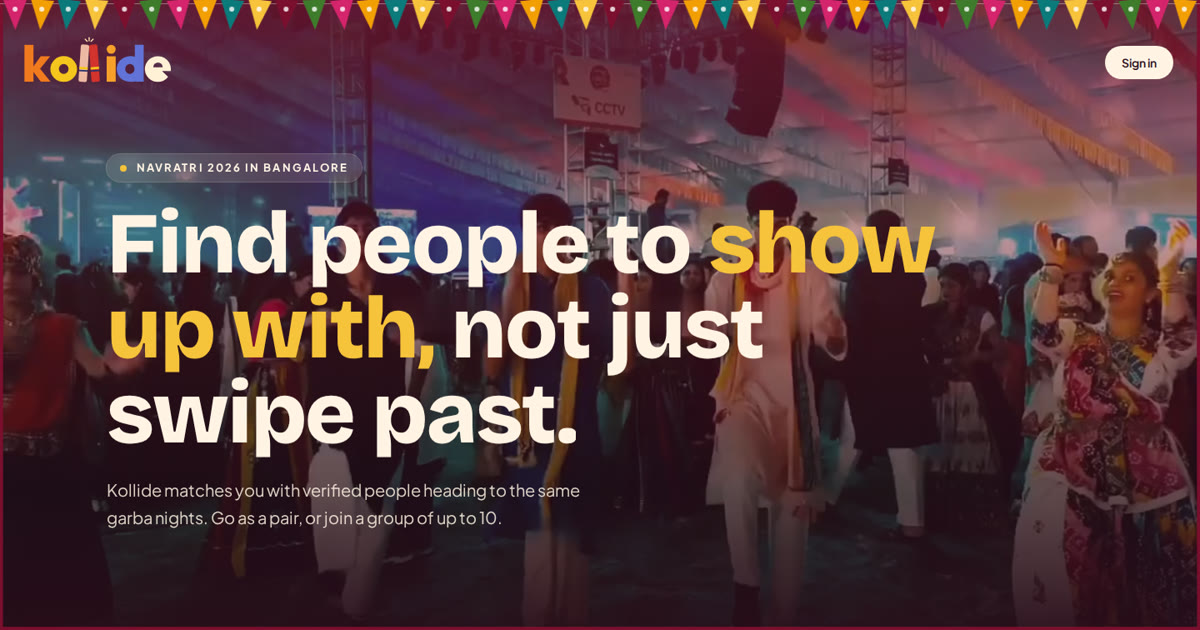
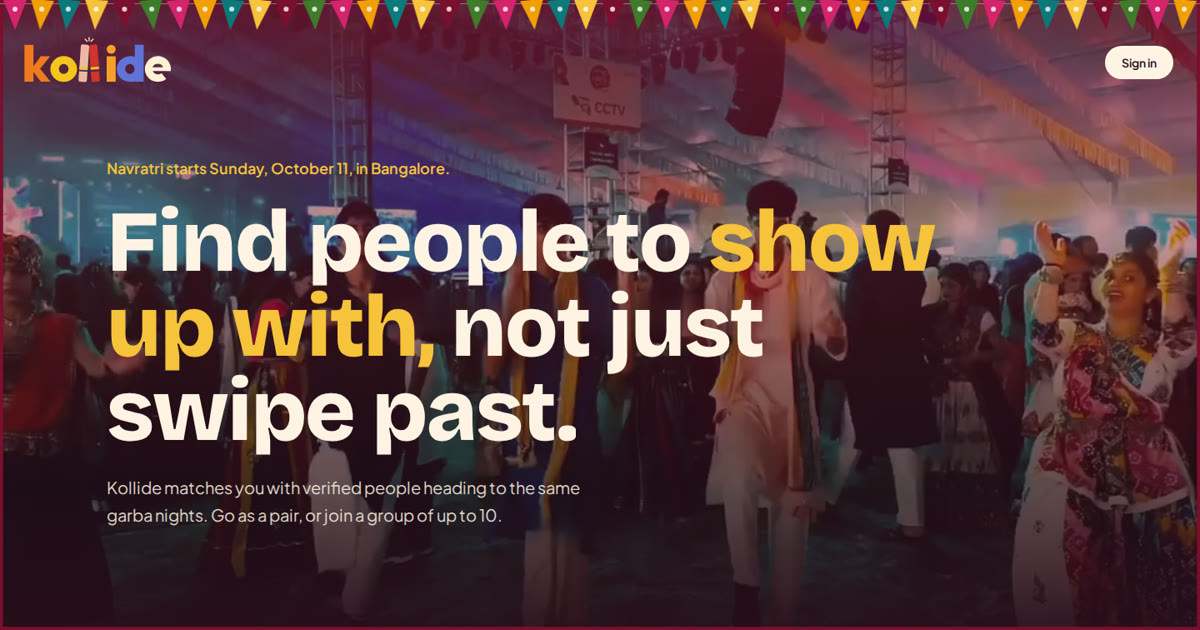
Landing: redraw the wordmark e, plain hero line, fit the venue photo
- Wordmark: the e was a solid disc with a wedge cut out. It's now a real
  e: a ring with a crossbar, a small counter above it and an open
  aperture below, ending in an angled terminal. This changes the logo
  everywhere it's used (landing page, app header and sidebar, intro).
- Hero: the uppercase "Navratri 2026 in Bangalore / 13 days to go" pill
  with the pulsing dot is replaced by one plain line: "Navratri starts
  Sunday, October 11, in Bangalore." The countdown stays in the waitlist
  block.
- How it works: the venue photo is much taller than the card, so it's
  now shown whole, over a blurred copy of itself, instead of cropped.
- Share image regenerated with the new e.

Claude-Session: https://claude.ai/code/session_01XPFW8ovrXKW2N96HVEnVAT

diff --git a/web/src/components/landing/HowItWorks.tsx b/web/src/components/landing/HowItWorks.tsx
@@ -31,7 +31,9 @@ const STEPS = [
     points: ['Private chat', 'Swap socials', 'Block in one tap'],
     photo: '/landing/step-venue.webp',
     alt: 'A festival ground at dusk strung with fabric, flags and fairy lights',
-    position: '50% 68%',
+    position: '50% 50%',
+    // A tall photo: show all of it, over a soft blurred copy of itself.
+    fit: 'contain' as const,
     bg: G.peacock,
     fg: G.cream,
   },
@@ -76,14 +78,35 @@ function StepCard({ index, progress }: { index: number; progress: MotionValue<nu
           </ul>
         </div>
         <div className="relative hidden overflow-hidden md:block">
-          <motion.img
-            src={step.photo}
-            alt={step.alt}
-            loading="lazy"
-            decoding="async"
-            className="absolute inset-0 h-full w-full object-cover"
-            style={{ scale: photoScale, objectPosition: step.position }}
-          />
+          {'fit' in step && step.fit === 'contain' ? (
+            <>
+              <motion.img
+                src={step.photo}
+                alt=""
+                aria-hidden
+                loading="lazy"
+                decoding="async"
+                className="absolute inset-0 h-full w-full scale-110 object-cover opacity-70 blur-2xl"
+                style={{ scale: photoScale }}
+              />
+              <img
+                src={step.photo}
+                alt={step.alt}
+                loading="lazy"
+                decoding="async"
+                className="absolute inset-0 h-full w-full object-contain drop-shadow-2xl"
+              />
+            </>
+          ) : (
+            <motion.img
+              src={step.photo}
+              alt={step.alt}
+              loading="lazy"
+              decoding="async"
+              className="absolute inset-0 h-full w-full object-cover"
+              style={{ scale: photoScale, objectPosition: step.position }}
+            />
+          )}
         </div>
       </motion.article>
     </div>

diff --git a/web/src/pages/Landing.tsx b/web/src/pages/Landing.tsx
@@ -102,7 +102,6 @@ function HeroCurtain({
   const curtainRef = useRef<HTMLDivElement>(null)
   const videoRef = useRef<HTMLVideoElement>(null)
   const reduced = useReducedMotion()
-  const days = useDaysToGo()
   const { scrollYProgress } = useScroll({ target: curtainRef, offset: ['start end', 'start start'] })
   const heroScale = useTransform(scrollYProgress, (p) => (reduced ? 1 : 1 - 0.08 * p))
   const heroDim = useTransform(scrollYProgress, (p) => (reduced ? 0 : 0.6 * p))
@@ -160,13 +159,8 @@ function HeroCurtain({
 
           <div className="mx-auto flex w-full max-w-7xl flex-1 flex-col justify-center px-5 pb-10 sm:px-8 lg:px-12">
             <FadeUp play={ready}>
-              <p className="inline-flex flex-wrap items-center gap-x-3 gap-y-1 rounded-full bg-[#FFF4E4]/12 px-4 py-2 text-xs font-bold uppercase tracking-[0.16em] ring-1 ring-[#FFF4E4]/25 backdrop-blur-sm sm:text-[13px]">
-                <span className="relative flex h-2 w-2">
-                  <span className="absolute inline-flex h-full w-full animate-ping rounded-full opacity-75" style={{ backgroundColor: G.haldi }} />
-                  <span className="relative inline-flex h-2 w-2 rounded-full" style={{ backgroundColor: G.haldi }} />
-                </span>
-                Navratri 2026 in Bangalore
-                {days > 0 && <span style={{ color: G.haldi }}>{days} days to go</span>}
+              <p className="text-base font-semibold sm:text-lg" style={{ color: G.haldi }}>
+                Navratri starts Sunday, October 11, in Bangalore.
               </p>
             </FadeUp>
             <RevealText

diff --git a/web/src/components/landing/Wordmark.tsx b/web/src/components/landing/Wordmark.tsx
@@ -157,7 +157,7 @@ export default function Wordmark({
         style={hidden}
         fillRule="evenodd"
         fill={c.e}
-        d="M916 214 L862 214 L900 250.3 A81 80 0 1 1 916 214 Z M808 190 A29 30 0 0 1 866 190 Z"
+        d="M916 214 A81 80 0 1 0 888.1 262.3 L858.5 226.3 A35 33 0 0 1 803.8 214 Z M803 190 A35 33 0 0 1 869 190 Z"
       />
     </svg>
   )
